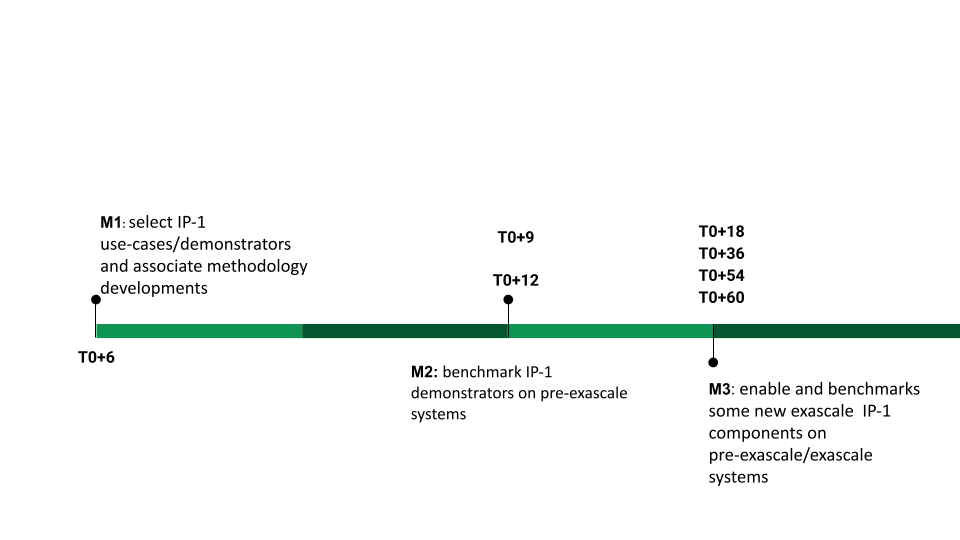
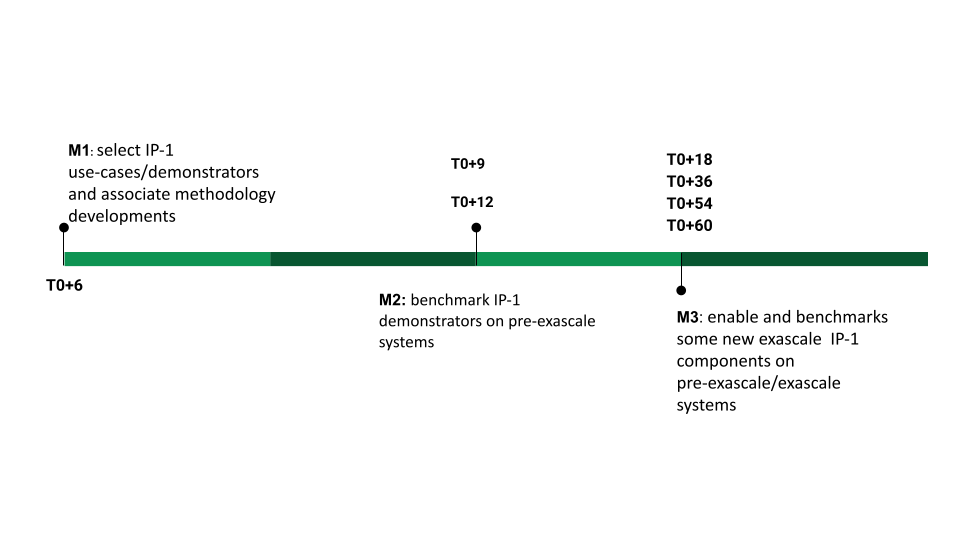
up

diff --git a/docs/meetings/2023/0105_genci/frames.tex b/docs/meetings/2023/0105_genci/frames.tex
@@ -260,19 +260,14 @@ The   main objectives are
 
   \includegraphics[width=.8\linewidth]{../../figures/exama-software.png}
 
-
-  
 \end{frame}
 
-\subsection{Software Deliverables}
+\subsection{Agenda}
 \begin{frame}
   \frametitle{\insertsectionhead}
   \framesubtitle{\insertsubsectionhead}
 
-\begin{itemize}
-  \item 
-\end{itemize}
-
+  \includegraphics[width=\linewidth]{../../figures/exama-timeline.png}
 \end{frame}
 
 \subsection{Status : Teams}
